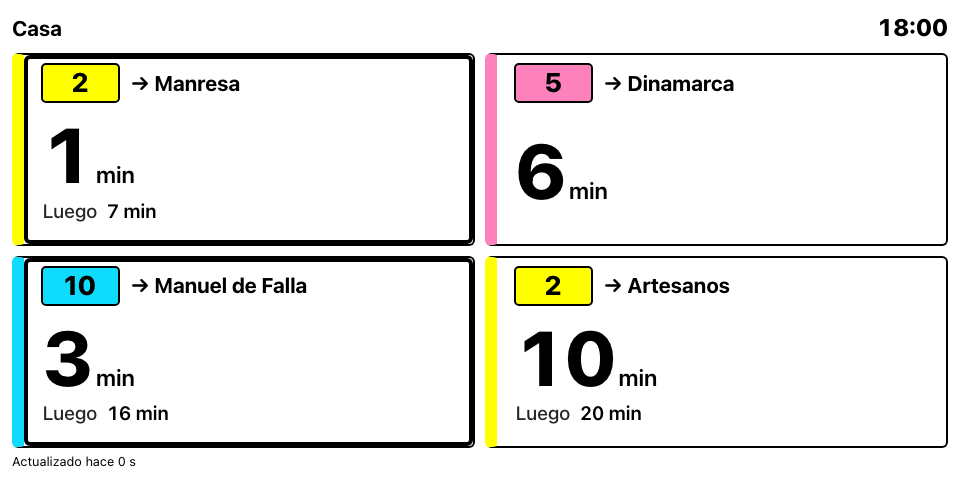
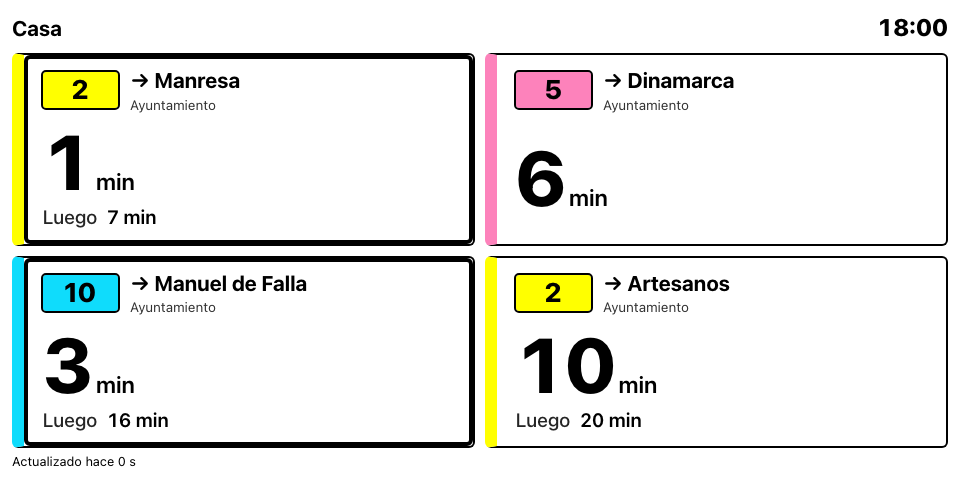
fix: address Codex review findings (iter 1) — ocultar la parada solo si la página ya la muestra
La tarjeta de Home Assistant sin titulo y los paneles con título propio perdían el nombre
de la parada. Ahora lo omiten solo el panel y el modo pantalla cuando su título son los
nombres de las paradas.

diff --git a/web/packages/board/test/components.test.ts b/web/packages/board/test/components.test.ts
@@ -960,10 +960,23 @@ describe('<lb-card>', () => {
     expect(css).toContain('var(--lb-cqi)');
   });
 
-  it('leaves out the stop name when every card shows the same one', async () => {
+  it('leaves out the stop name every card shares, only when the page shows it', async () => {
     const board = await mountBoard('p=101-2d.10d~100-2a', new FakeSource());
+    const grid = board.shadowRoot!.querySelector('lb-card-grid')!;
+    const settle = async () => {
+      await board.updateComplete;
+      await grid.updateComplete;
+      await Promise.all(cardsOf(board).map((card) => card.updateComplete));
+    };
+    const stopNames = () =>
+      cardsOf(board).map((card) => card.shadowRoot!.querySelector('.stop')?.textContent ?? null);
+    await settle();
+    // Without the opt-in (Home Assistant, a page with its own title) the name stays.
+    expect(stopNames().every((name) => name === 'Ayuntamiento')).toBe(true);
+
+    board.hideSharedStop = true;
+    await settle();
     const cards = cardsOf(board);
-    await Promise.all(cards.map((card) => card.updateComplete));
     // Stops 101 and 100 face each other and are both «Ayuntamiento».
     console.info('stop names', [...new Set(cards.map((card) => card.card!.stop_name))]);
     expect(cards.length).toBeGreaterThan(1);
@@ -984,6 +997,7 @@ describe('<lb-card>', () => {
     const board = await mountBoard('p=101-2d', new FakeSource());
     const grid = board.shadowRoot!.querySelector('lb-card-grid')!;
     const [card] = cardsOf(board);
+    grid.hideSharedStop = true;
     grid.cards = [card!.card!, { ...card!.card!, line_id: '99', stop_name: 'Gran Vía' }];
     await grid.updateComplete;
     await Promise.all(cardsOf(board).map((each) => each.updateComplete));

diff --git a/web/packages/board/src/lb-card-grid.ts b/web/packages/board/src/lb-card-grid.ts
@@ -94,6 +94,7 @@ export class LbCardGrid extends LitElement {
     alertMinutes: { type: Number, attribute: 'alert-minutes' },
     layout: { type: String, reflect: true },
     openable: { type: Boolean },
+    hideSharedStop: { type: Boolean, attribute: 'hide-shared-stop' },
     services: { attribute: false },
     size: { state: true },
   };
@@ -108,6 +109,9 @@ export class LbCardGrid extends LitElement {
   declare layout: GridLayout;
   /** Whether tapping a card may open its route view. */
   declare openable: boolean;
+  /** Leave the stop name off the cards when they all share it. Only for a parent that already
+   * shows that name (the web's title, when it lists the stops); otherwise it would be lost. */
+  declare hideSharedStop: boolean;
   /** Where each card's line stands in its day (by `cardKey`), for cards with no bus due. */
   declare services: ReadonlyMap<string, ServiceStatus>;
   declare size: { width: number; height: number };
@@ -136,6 +140,7 @@ export class LbCardGrid extends LitElement {
     this.alertMinutes = 0;
     this.layout = 'auto';
     this.openable = true;
+    this.hideSharedStop = false;
     this.services = new Map();
     this.size = { width: 0, height: 0 };
   }
@@ -236,7 +241,7 @@ export class LbCardGrid extends LitElement {
   override render() {
     const variant = cardVariant(this);
     const still = !themeAllowsMotion(this);
-    const hideStop = sharedStopName(this.cards);
+    const hideStop = this.hideSharedStop && sharedStopName(this.cards);
     const columns =
       this.layout === 'kiosk'
         ? `--lb-columns: ${kioskColumns(this.cards.length, this.size.width, this.size.height)}`

diff --git a/web/packages/board/src/board.ts b/web/packages/board/src/board.ts
@@ -55,6 +55,7 @@ export class LogronoBusBoard extends LitElement {
     source: { attribute: false },
     status: { type: String, reflect: true },
     layout: { type: String, reflect: true },
+    hideSharedStop: { type: Boolean, attribute: 'hide-shared-stop' },
     cards: { state: true },
     now: { state: true },
     updatedAt: { state: true },
@@ -68,6 +69,8 @@ export class LogronoBusBoard extends LitElement {
   declare status: BoardStatus;
   /** `kiosk`: fill the host's height, no scrolling, columns chosen by card count. */
   declare layout: BoardLayout;
+  /** See `LbCardGrid.hideSharedStop`: set it only when the page shows the stop name itself. */
+  declare hideSharedStop: boolean;
   declare cards: readonly Card[];
   declare now: number;
   declare updatedAt: number | undefined;
@@ -90,6 +93,7 @@ export class LogronoBusBoard extends LitElement {
     this.source = undefined;
     this.status = 'loading';
     this.layout = 'auto';
+    this.hideSharedStop = false;
     this.cards = [];
     this.now = Date.now();
     this.updatedAt = undefined;
@@ -285,6 +289,7 @@ export class LogronoBusBoard extends LitElement {
         effect=${config.effect}
         alert-minutes=${config.alertMinutes}
         layout=${this.layout}
+        ?hide-shared-stop=${this.hideSharedStop}
         .services=${this.#services()}
         @card-open=${(event: CustomEvent<Card>) => (this.opened = cardKey(event.detail))}
       ></lb-card-grid>

diff --git a/web/packages/ha-card/test/card.test.ts b/web/packages/ha-card/test/card.test.ts
@@ -247,6 +247,26 @@ describe('<logrono-bus-card>', () => {
     expect(card.getGridOptions()).toMatchObject({ columns: 12 });
   });
 
+  it('keeps the stop name on every card, with or without a title', async () => {
+    for (const titulo of [undefined, 'Casa']) {
+      document.body.replaceChildren();
+      const card = await mount(
+        { entities: [line2('min').entity_id, line10.entity_id], ...(titulo ? { titulo } : {}) },
+        hass(line2('min'), line10),
+      );
+      const grid = card.shadowRoot!.querySelector('lb-card-grid')!;
+      await grid.updateComplete;
+      const cards = cardsIn(card);
+      await Promise.all(
+        cards.map((c) => (c as unknown as { updateComplete: Promise<void> }).updateComplete),
+      );
+      const names = cards.map((c) => c.shadowRoot!.querySelector('.stop')?.textContent ?? null);
+      console.info(`stop names (titulo=${titulo ?? 'none'})`, names);
+      expect(names).toHaveLength(2);
+      expect(names.every((name) => name !== null && name.length > 0)).toBe(true);
+    }
+  });
+
   it('explains when the sensors are not from the integration', async () => {
     const card = await mount({ entities: ['sensor.salon'] }, hass());
     expect(card.shadowRoot!.querySelector('.empty')?.textContent).toContain('Logroño Bus');

diff --git a/web/apps/pwa/test/app-logic.test.ts b/web/apps/pwa/test/app-logic.test.ts
@@ -23,7 +23,7 @@ import {
   savedTheme,
 } from '../src/preferences.ts';
 import { route } from '../src/router.ts';
-import { boardTitle } from '../src/views/panel.ts';
+import { boardTitle, titleNamesStops } from '../src/views/panel.ts';
 import { qrSvg } from '../src/views/share.ts';
 import { destinationsSummary } from '../src/views/stop-picker.ts';
 import { boardablePatterns, selectionFor } from '../src/views/wizard.ts';
@@ -166,6 +166,11 @@ describe('wizard helpers', () => {
     expect(boardTitle(parseBoardConfig('p=101~69')!, catalog)).toBe('Ayuntamiento · Portales');
     expect(boardTitle(parseBoardConfig('p=101&titulo=Casa')!, catalog)).toBe('Casa');
     expect(boardTitle(config, undefined)).toBe('Parada 101 · Parada 100 · Parada 2');
+  });
+
+  it('lets cards drop a shared stop name only when the title lists the stops', () => {
+    expect(titleNamesStops(parseBoardConfig('p=101~100')!)).toBe(true);
+    expect(titleNamesStops(parseBoardConfig('p=101&titulo=Casa')!)).toBe(false);
   });
 });
 

diff --git a/web/apps/pwa/src/views/panel.ts b/web/apps/pwa/src/views/panel.ts
@@ -17,6 +17,11 @@ import { type DisplayChangeEvent } from './display-settings.ts';
 import './display-settings.ts';
 import './share.ts';
 
+/** Whether the board title is the stop names (no custom title), so cards need not repeat them. */
+export function titleNamesStops(config: BoardConfig): boolean {
+  return !config.title;
+}
+
 /** Board title: the configured one, or the stop names. */
 export function boardTitle(config: BoardConfig, catalog: CatalogIndex | undefined): string {
   if (config.title) return config.title;
@@ -161,6 +166,7 @@ export class LbPanel extends LitElement {
           ? html`<logrono-bus-board
               .config=${this.config}
               .source=${this.source}
+              ?hide-shared-stop=${titleNamesStops(this.config)}
             ></logrono-bus-board>`
           : html`<p
               class=${this.problem ? 'error' : 'muted'}

diff --git a/web/apps/pwa/src/views/kiosk.ts b/web/apps/pwa/src/views/kiosk.ts
@@ -21,7 +21,7 @@ import { KioskGuard, keepScreenOn } from '../kiosk-guard.ts';
 import { applyTheme } from '../preferences.ts';
 import { type DisplayChangeEvent } from './display-settings.ts';
 import './display-settings.ts';
-import { boardTitle } from './panel.ts';
+import { boardTitle, titleNamesStops } from './panel.ts';
 
 const CLOCK_TICK_MS = 1_000;
 const CONTROLS_VISIBLE_MS = 6_000;
@@ -258,6 +258,7 @@ export class LbKiosk extends LitElement {
               layout="kiosk"
               .config=${this.config}
               .source=${this.source}
+              ?hide-shared-stop=${titleNamesStops(this.config)}
               @click=${this.#onBoardTap}
             ></logrono-bus-board>`
           : html`<p class="message" role=${this.problem ? 'alert' : 'status'}>
